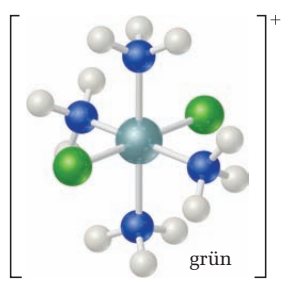
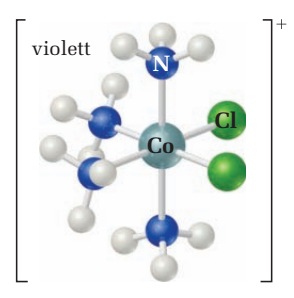
GITBOOK-221: change request with no subject merged in GitBook

diff --git a/komplexchemie/metalle-und-chelatkomplexe-in-lebendingen-systemen.md b/komplexchemie/metalle-und-chelatkomplexe-in-lebendingen-systemen.md
@@ -30,6 +30,8 @@ Das Produkt dieser Reaktion ist der Zucker Glucose (C6 H12 O6), der biologischen
 
 Chlorophylle enthalten ein $$Mg^{2+}$$-Ion, das an vier planar um das Metall angeordnete Stickstoffatome gebunden ist. Die Stickstoffatome sind Teil eines porphinähnlichen Rings. Der Ring verfügt ähnlich wie viele organische Farbstoffe über alternierende bzw. konjugierte Doppelbindungen. Dieses System konjugierter Doppelbindungen ermöglicht Chlorophyll die starke Absorption sichtbaren Lichts mit einer Wellenlänge im Bereich von 400 - 700 nm.
 
+<figure><img src="../.gitbook/assets/image.png" alt=""><figcaption><p>Farbkreis</p></figcaption></figure>
+
 <figure><img src="../.gitbook/assets/image (112).png" alt=""><figcaption><p>Absorptionsspektrum von Chlorophyll. Vergleich des Absorptionsspektrums von Chlorophyll (grüne Kurve) mit der spektralen Verteilung der auf die Erdoberfläche treffenden Sonnenstrahlung (rote Kurve).</p></figcaption></figure>
 
 Die grüne Farbe des Chlorophylls ist eine Folge der Absorption der roten (maximale Absorption bei 655 nm) und blauen (maximale Absorption bei 430 nm) Lichtanteile und der Transmission grünen Lichts. Die von Chlorophyll absorbierte Sonnenenergie wird in einer komplexen Abfolge mehrerer Schritte in chemische Energie umgewandelt. Diese gespeicherte Energie wird anschliessend zum Antreiben der in Gleichung dargestellten Reaktion nach rechts, also in die hochgradig endotherme Richtung, verwendet. Die Photosynthese der Pflanzen ist das Solarenergiekraftwerk der Natur, von dem die langfristige Existenz aller auf der Erde lebenden Systeme abhängt.

diff --git a/komplexchemie/isomere.md b/komplexchemie/isomere.md
@@ -2,9 +2,9 @@
 
 Die Liganden können beim Komplex $$[Co(NH_3)_4Cl_2]^+$$ auf zwei verschiedene Arten angeordnet werden: gegenüberliegend (trans) oder auf der gleichen Seite (cis):
 
-|                cis                |                  trans                  |
-| :-------------------------------: | :-------------------------------------: |
-| ![](../.gitbook/assets/image.png) | ![](<../.gitbook/assets/image (1).png>) |
+|                   cis                   |                    trans                    |
+| :-------------------------------------: | :-----------------------------------------: |
+| ![](<../.gitbook/assets/image (1).png>) | ![](<../.gitbook/assets/image (1) (1).png>) |
 
 
 

diff --git a/komplexchemie/lewis-saeuren-und-basen.md b/komplexchemie/lewis-saeuren-und-basen.md
@@ -24,7 +24,7 @@ Interpretation:
 
 Metall-Ionen sind **Elektronen-Akzeptoren.** Sie bilden mit **Elektronen-Donoren** wie Wassermolekülen einen Komplex:
 
-<figure><img src="../.gitbook/assets/image (1) (1).png" alt=""><figcaption><p>Hexaquaaluminat- und Pentaquahydroxoaluminat-Ion, Bildung von Oxonium-Ionen</p></figcaption></figure>
+<figure><img src="../.gitbook/assets/image (1) (1) (1).png" alt=""><figcaption><p>Hexaquaaluminat- und Pentaquahydroxoaluminat-Ion, Bildung von Oxonium-Ionen</p></figcaption></figure>
 
 Durch die Polarisierung der Wassermoleküle werden die H-Atome stark partiell positiv geladen und als Folge spalten sich Protonen ( $$H^+$$) ab.&#x20;
 

diff --git a/säurestärke/pks-werte.md b/säurestärke/pks-werte.md
@@ -36,7 +36,7 @@ Betrachte die folgende pKs- Tabelle. Versuche, die unterschiedlichen pKs-Werte a
 
 Betrachten wir die pKs-Werte der Hydride der ersten Periode:
 
-<figure><img src="../.gitbook/assets/image (1) (1) (1) (1).png" alt=""><figcaption><p>Hydride der ersten Periode</p></figcaption></figure>
+<figure><img src="../.gitbook/assets/image (1) (1) (1) (1) (1).png" alt=""><figcaption><p>Hydride der ersten Periode</p></figcaption></figure>
 
 Offenbar sinkt der pKs-Wert mit zunehmender Elektronegativität des an das azide H-Atom gebundene Element. HF ist also die stärkste Säure in dieser Gruppe.
 
